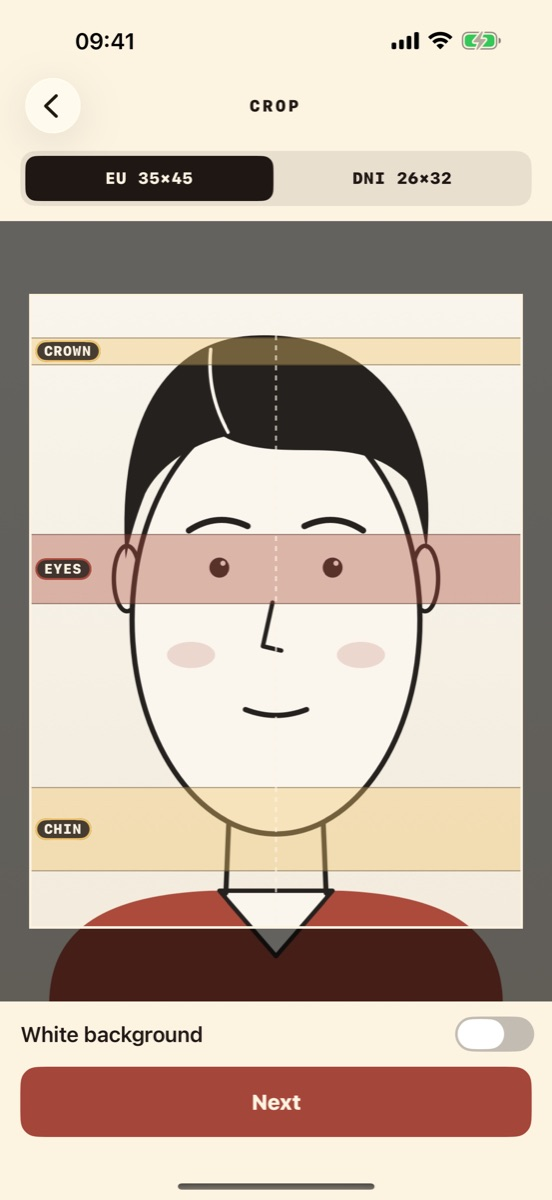
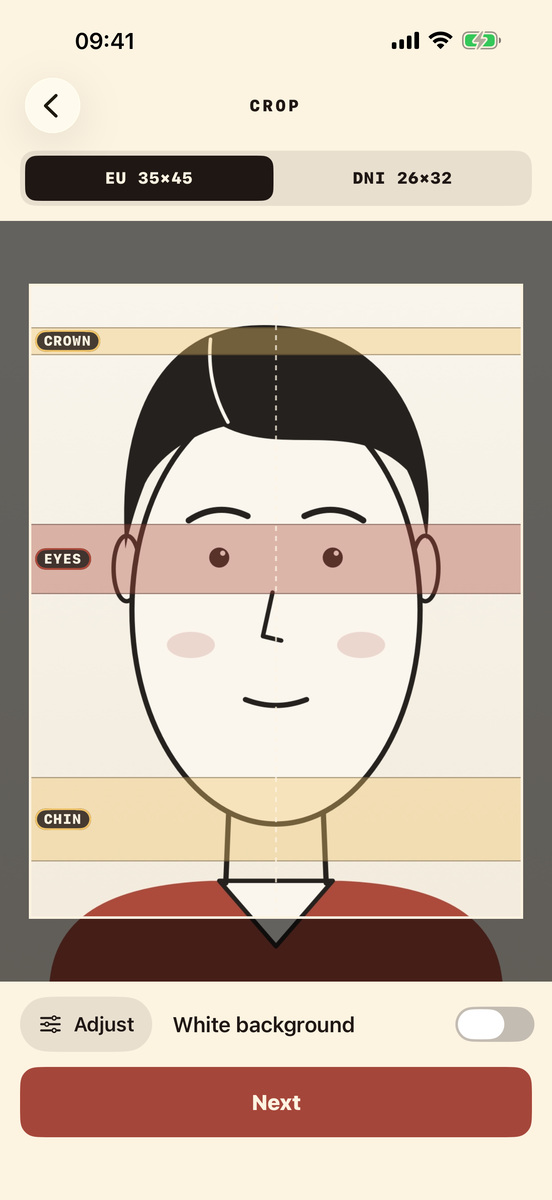
feat(fotocarnet): Ajustar and the full-screen sheet, and the new crop screenshot
A printing tip for odd colours: Tono towards green removes a purple cast.

Claude-Session: https://claude.ai/code/session_01L9KoCXDaibAcEgx8jPYRUF

diff --git a/fotocarnet/index.html b/fotocarnet/index.html
@@ -86,7 +86,7 @@
 <div class="cutline" aria-hidden="true"><span>✂ corta por aquí</span></div>
 <section>
   <h2>Así funciona</h2>
-  <ol class="steps"><li class="step"><span class="num">1</span><h3>Haz o elige la foto</h3><p>La cámara muestra el marco del formato y las guías de coronilla, ojos y barbilla. También puedes elegir una foto de tu fototeca.</p></li><li class="step"><span class="num">2</span><h3>Encuadra</h3><p>Ajusta con los dedos bajo las mismas guías. Si quieres, «Fondo blanco» separa a la persona del fondo, en el propio iPhone.</p></li><li class="step"><span class="num">3</span><h3>Imprime</h3><p>Una hoja de 10×15 con marcas de corte: en casa en PDF, o en una tienda o laboratorio en JPEG.</p></li></ol>
+  <ol class="steps"><li class="step"><span class="num">1</span><h3>Haz o elige la foto</h3><p>La cámara muestra el marco del formato y las guías de coronilla, ojos y barbilla. También puedes elegir una foto de tu fototeca.</p></li><li class="step"><span class="num">2</span><h3>Encuadra</h3><p>Ajusta con los dedos bajo las mismas guías. Si quieres, «Fondo blanco» separa a la persona del fondo, en el propio iPhone, y «Ajustar» corrige el brillo, la calidez y el tono.</p></li><li class="step"><span class="num">3</span><h3>Imprime</h3><p>Una hoja de 10×15 con marcas de corte: en casa en PDF, o en una tienda o laboratorio en JPEG.</p></li></ol>
 </section>
 <section>
   <h2>La app</h2>
@@ -102,6 +102,7 @@
     <div class="card cut"><h3>En casa (PDF)</h3><p>Pulsa <em>Imprimir en casa (PDF)</em> y luego Imprimir. Papel 10×15 (4×6 pulgadas) y escala al 100&nbsp;%, no «ajustar». Mide una copia con una regla.</p></div>
     <div class="card cut"><h3>En tienda o laboratorio (JPEG)</h3><p>Pulsa <em>Tienda o laboratorio (JPEG)</em> y guarda o envía la imagen. Pide copias de 10×15 sin recortar ni ajustar: son 1200×1800 píxeles a 300&nbsp;ppp, exactamente 4×6 pulgadas.</p></div>
   </div>
+  <p class="tip"><strong>¿Sale con un tono raro?</strong> Si la foto o la copia sale morada, amarillenta o azulada, pulsa <em>Ajustar</em> en la pantalla de recorte: <em>Tono</em> hacia el verde quita el morado, y <em>Calidez</em> corrige la luz fría o cálida. El fondo blanco sigue blanco. Antes de imprimir, toca la hoja para verla a pantalla completa.</p>
 </section>
 <section class="note">
   <h2>¿Me aceptarán la foto?</h2>

diff --git a/en/fotocarnet/index.html b/en/fotocarnet/index.html
@@ -86,7 +86,7 @@
 <div class="cutline" aria-hidden="true"><span>✂ cut here</span></div>
 <section>
   <h2>How it works</h2>
-  <ol class="steps"><li class="step"><span class="num">1</span><h3>Take or pick the photo</h3><p>The camera shows the format's frame and the crown, eye and chin guides. You can also pick a photo from your library.</p></li><li class="step"><span class="num">2</span><h3>Frame it</h3><p>Adjust with your fingers under the same guides. If you like, “White background” separates the person from the background, on the iPhone itself.</p></li><li class="step"><span class="num">3</span><h3>Print</h3><p>One 4×6 in sheet with cut marks: at home as a PDF, or at a shop or photo lab as a JPEG.</p></li></ol>
+  <ol class="steps"><li class="step"><span class="num">1</span><h3>Take or pick the photo</h3><p>The camera shows the format's frame and the crown, eye and chin guides. You can also pick a photo from your library.</p></li><li class="step"><span class="num">2</span><h3>Frame it</h3><p>Adjust with your fingers under the same guides. If you like, “White background” separates the person from the background, on the iPhone itself, and “Adjust” corrects brightness, warmth and tint.</p></li><li class="step"><span class="num">3</span><h3>Print</h3><p>One 4×6 in sheet with cut marks: at home as a PDF, or at a shop or photo lab as a JPEG.</p></li></ol>
 </section>
 <section>
   <h2>The app</h2>
@@ -102,6 +102,7 @@
     <div class="card cut"><h3>At home (PDF)</h3><p>Tap <em>Print at home (PDF)</em>, then Print. 4×6 in (10×15) paper at 100% scale, not “fit”. Measure a copy with a ruler.</p></div>
     <div class="card cut"><h3>At a shop or photo lab (JPEG)</h3><p>Tap <em>Shop or photo lab (JPEG)</em> and save or send the image. Order 4×6 in prints without cropping or fitting: it is 1200×1800 pixels at 300 dpi, exactly 4×6 in.</p></div>
   </div>
+  <p class="tip"><strong>Odd colours?</strong> If the photo or the print comes out purple, yellowish or bluish, tap <em>Adjust</em> on the crop screen: <em>Tint</em> towards green removes purple, and <em>Warmth</em> corrects cold or warm light. A white background stays white. Before printing, tap the sheet to see it full screen.</p>
 </section>
 <section class="note">
   <h2>Will my photo be accepted?</h2>

diff --git a/style.css b/style.css
@@ -137,6 +137,8 @@ h3 { font-size: 19px; margin: 0 0 6px; }
 
 .note { border-left: 5px solid var(--gold); padding: 6px 0 6px 26px; }
 .note p { margin: 0; max-width: 46em; color: var(--cream-soft); }
+.tip { margin: 28px 0 0; max-width: 46em; color: var(--cream-soft); }
+.tip strong { color: var(--cream); }
 .pair p { margin: 0; color: var(--cream-soft); }
 
 .intro { margin-top: 64px; }
